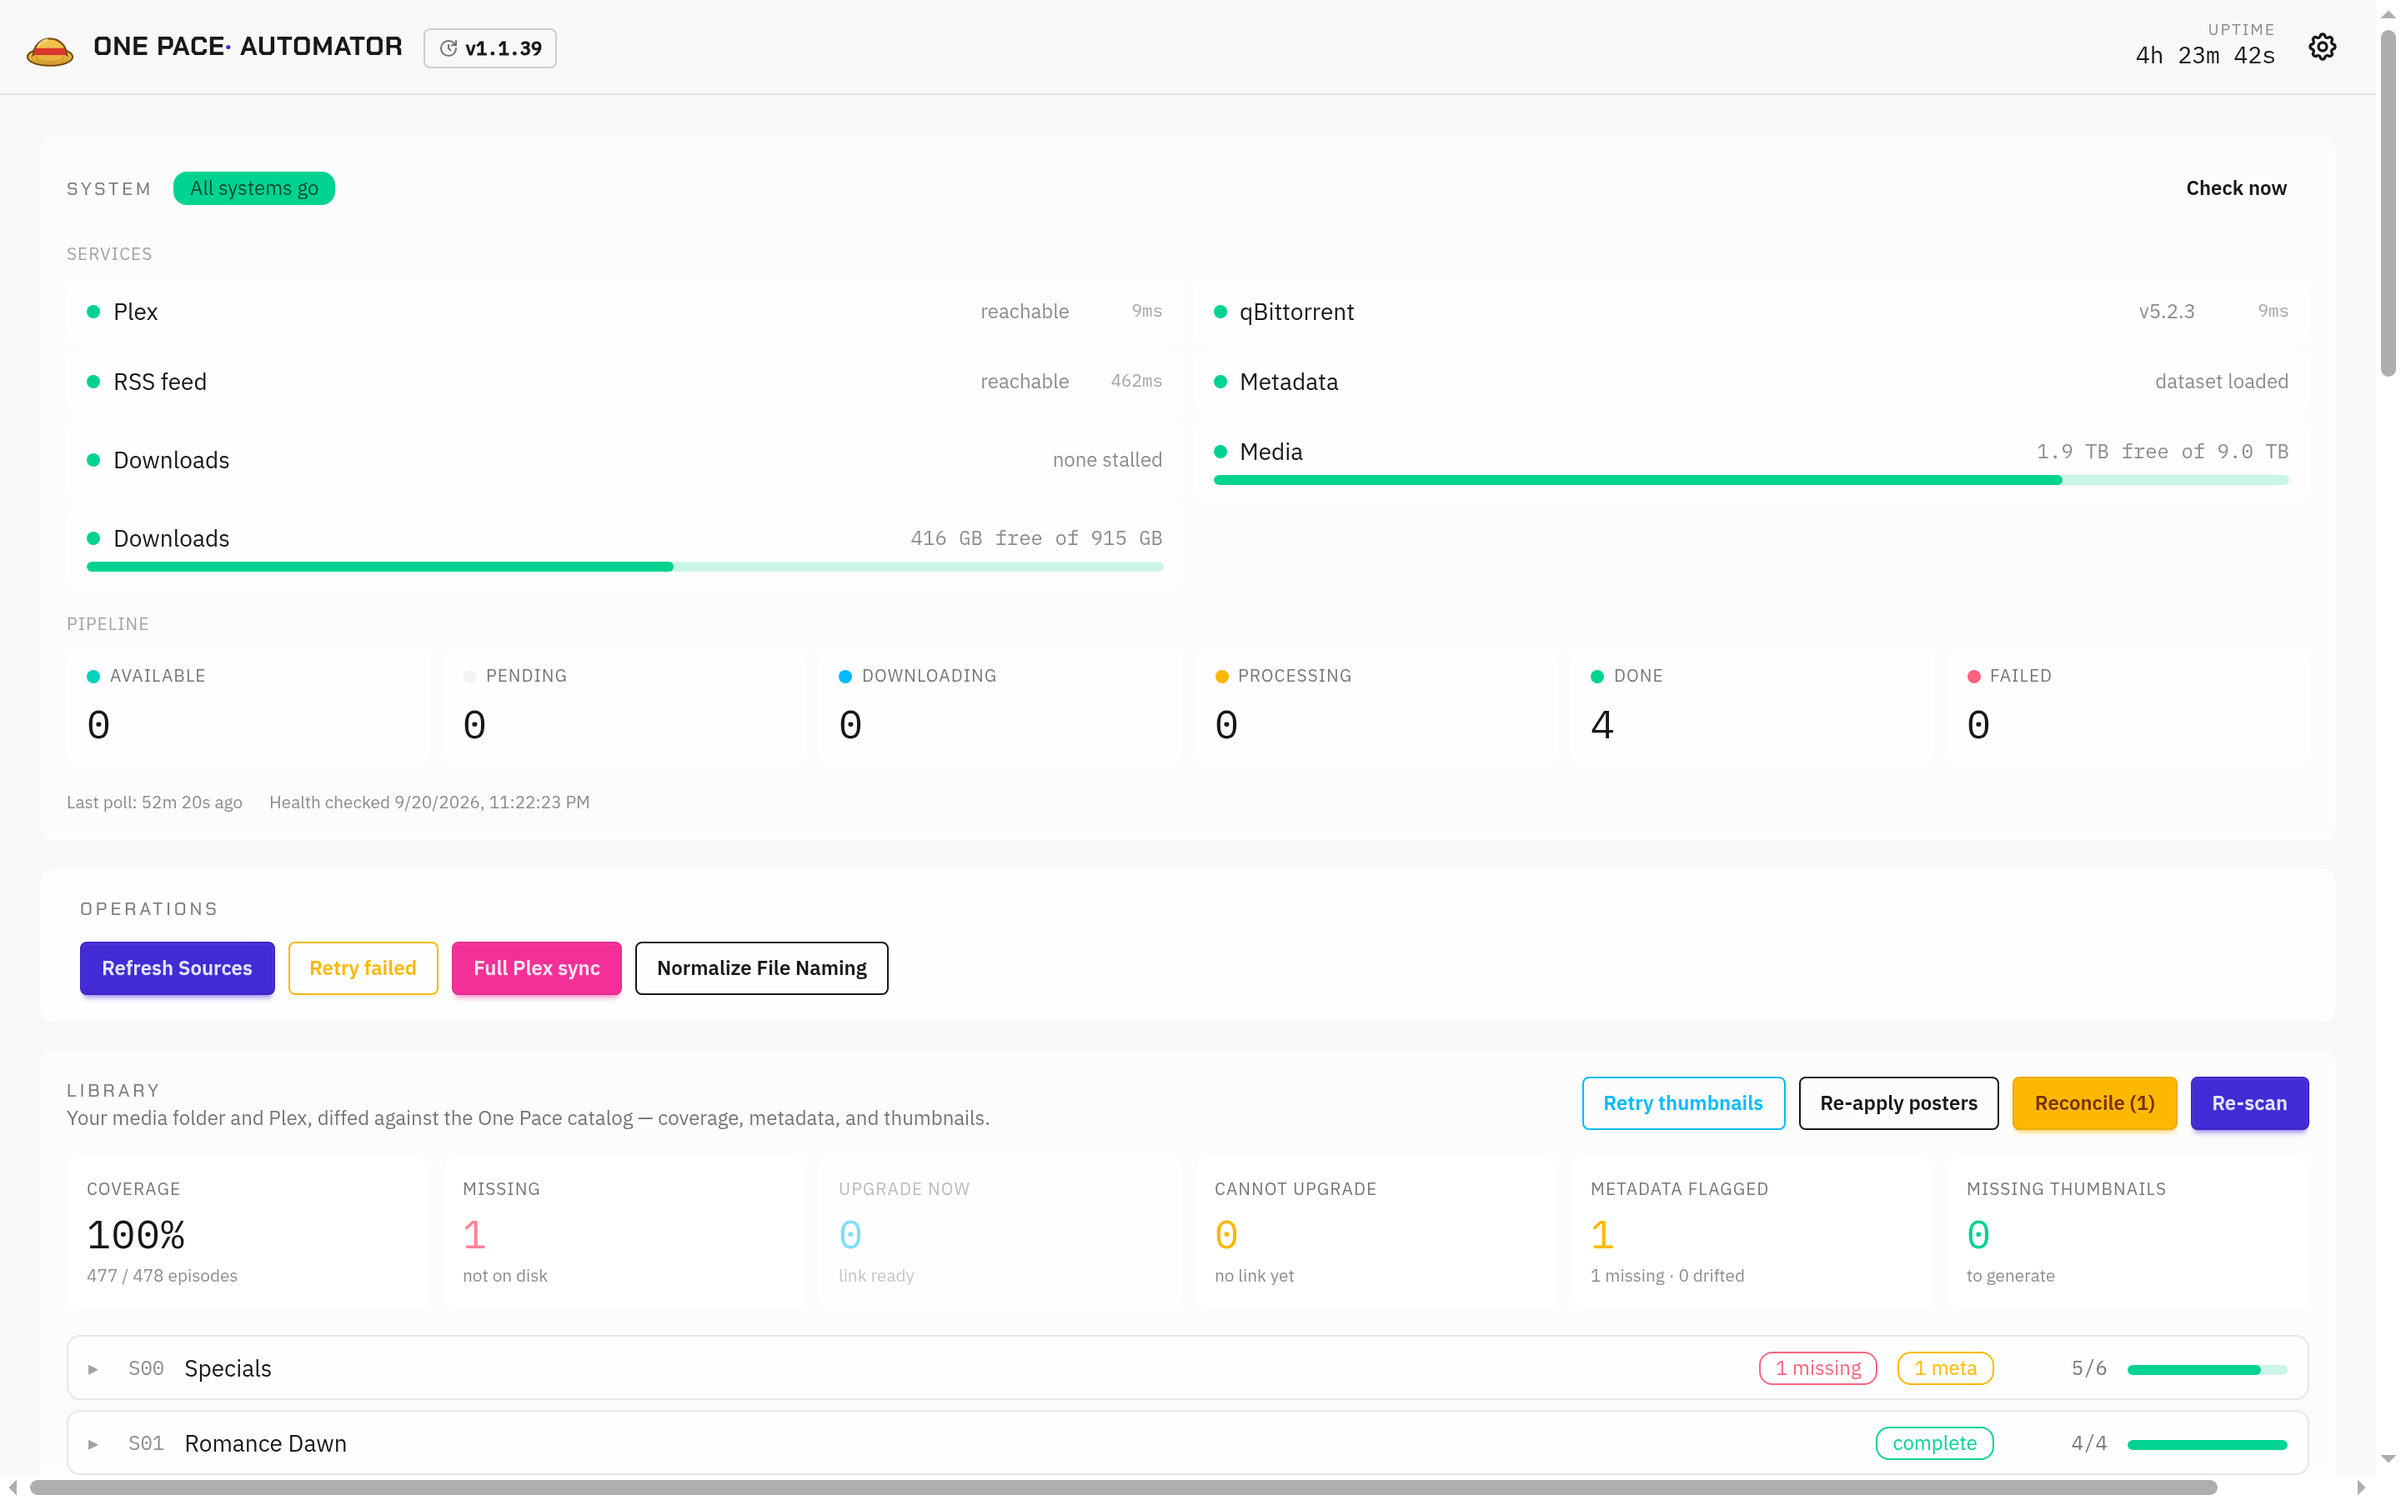
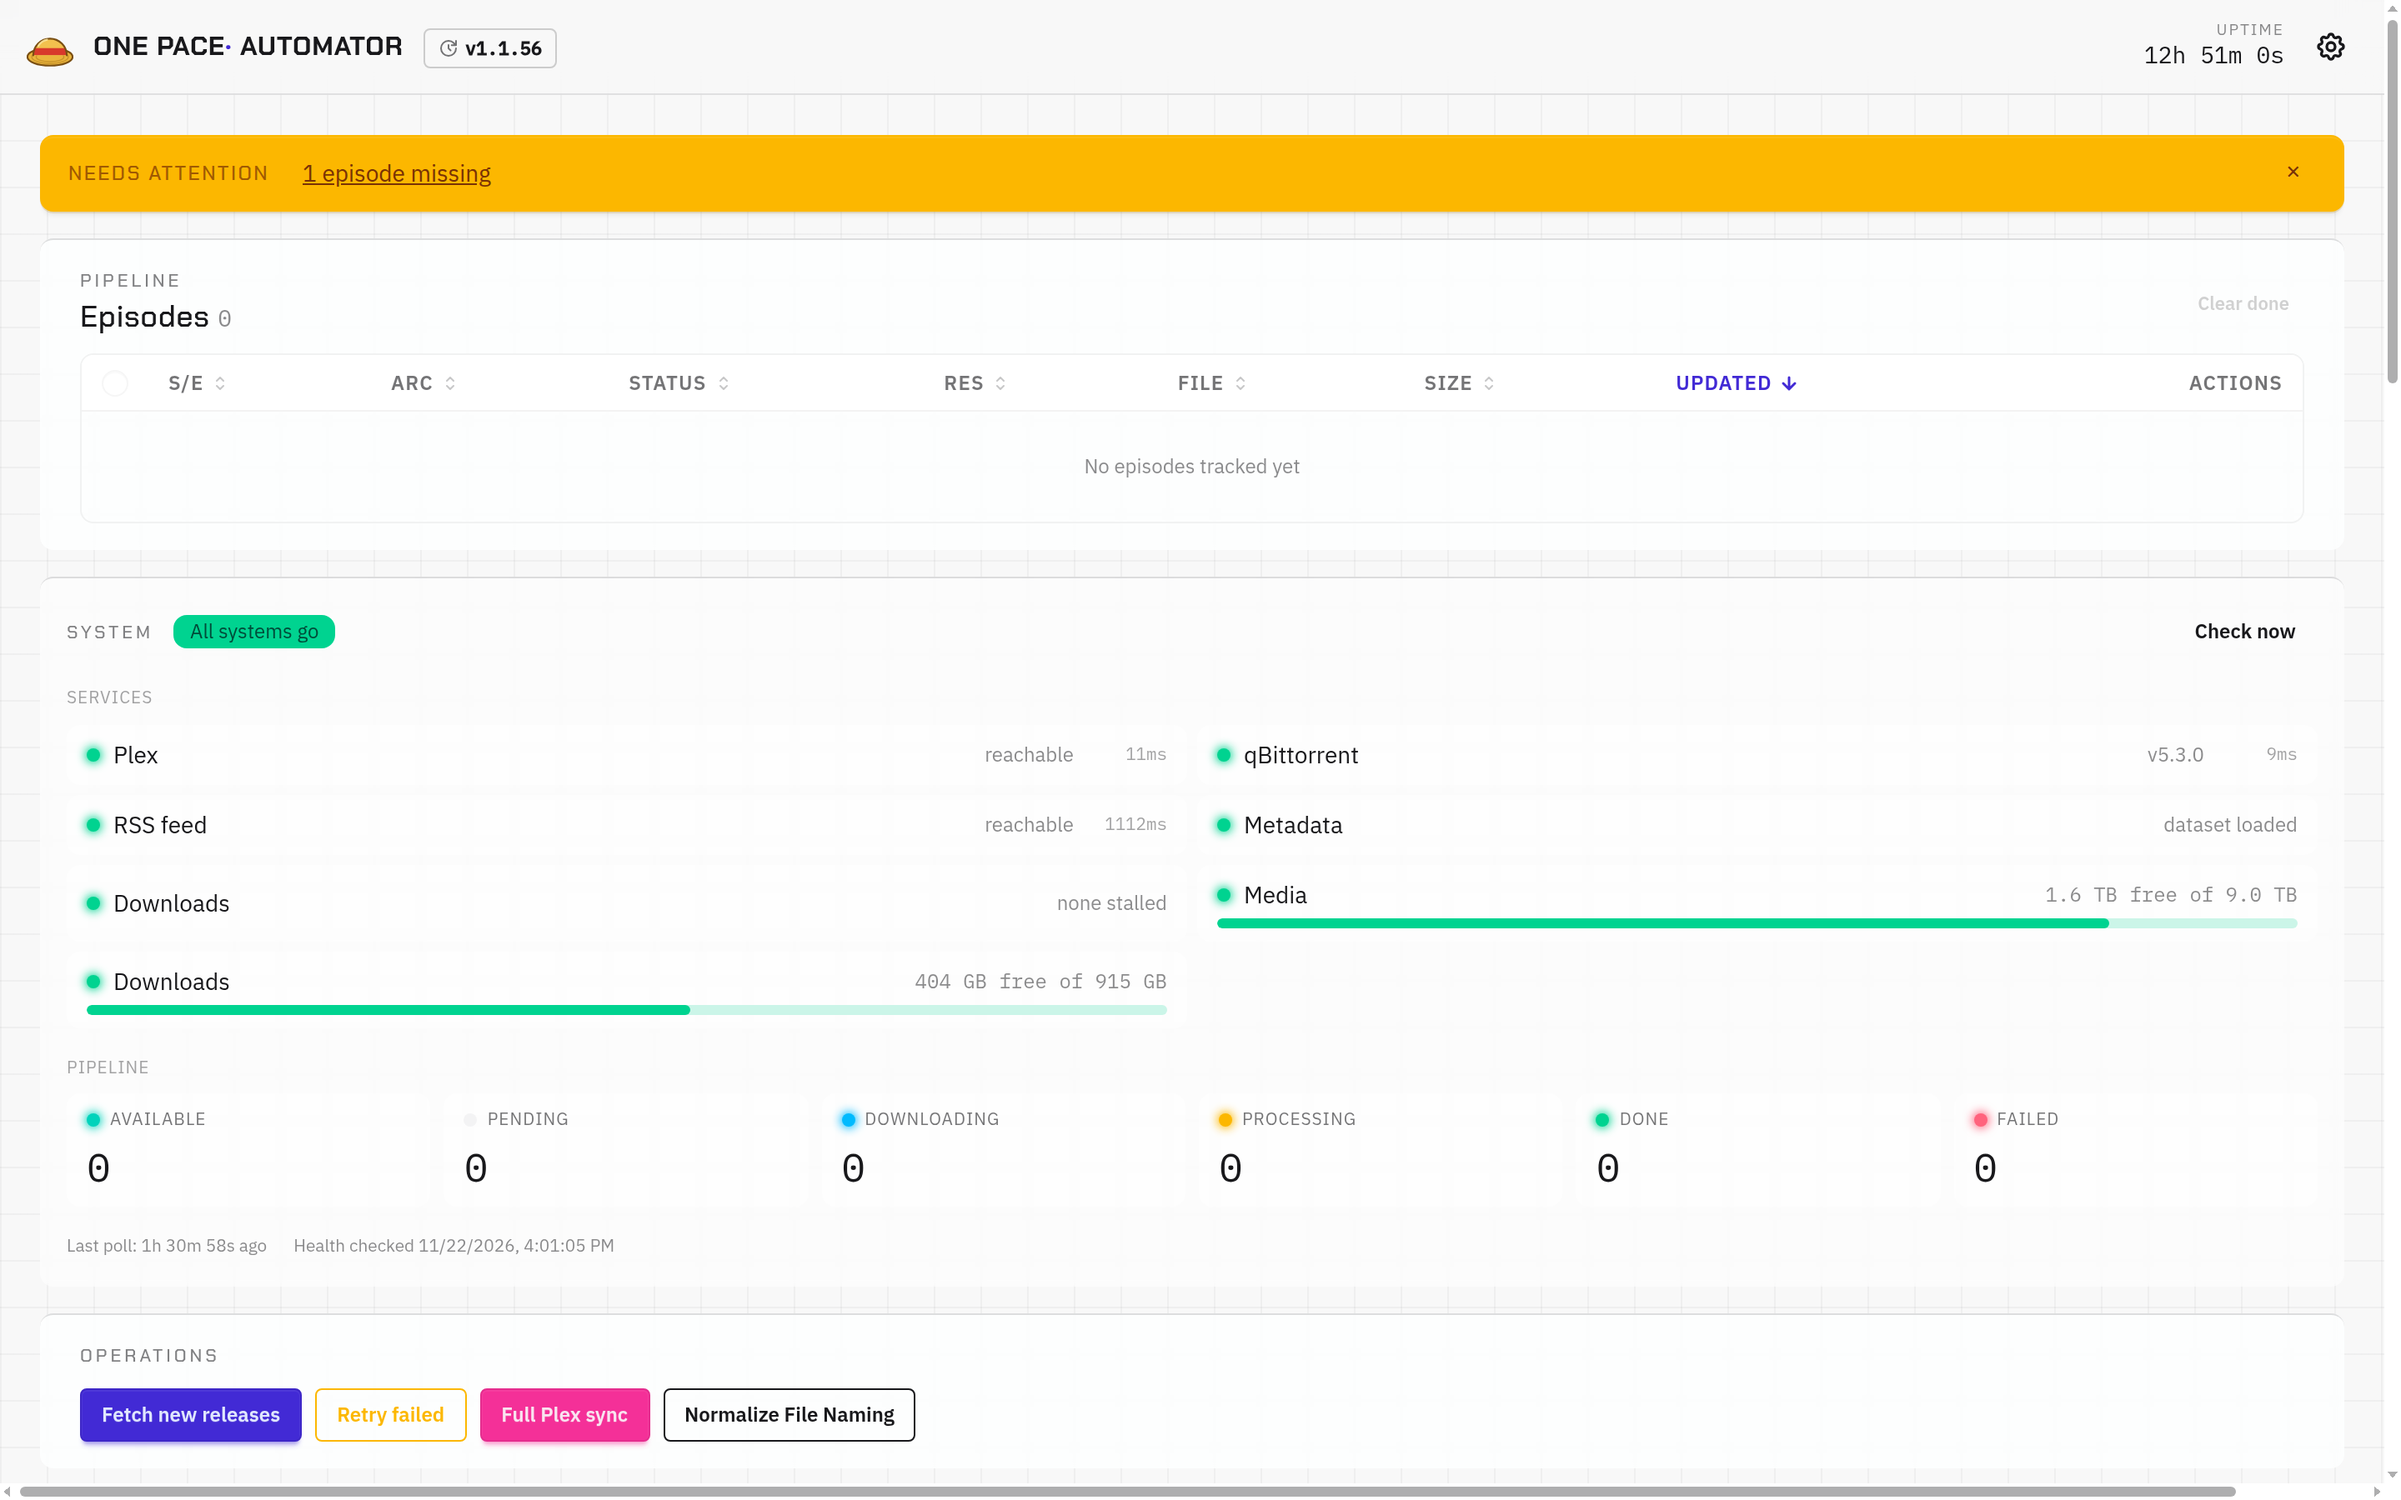
Fix mobile overflow found by browser verification, refresh README screenshots
Playwright sweep (17 checks: section order, banner dismiss/persist/
resurface, jump-link offset, gap filter, footer clusters, 390px overflow,
zero errors) caught two real phone-layout bugs:

- Closed dialog.modal elements stay rendered (DaisyUI v5) and leaked
  their natural width into the page; keep them display:none until
  showModal() sets [open]. Verified dialogs still open/close.
- DaisyUI v5 renders .alert as grid (single row), so the banner pushed
  wide off-viewport; the banner is now flex with wrap.
- Library header button group did not wrap at 390px.

The lit deck-card edge, dialog guard, banner flex and touch tweaks live
in an unlayered overrides block: Tailwind v4 emits DaisyUI outside any
cascade layer, so unlayered styles outrank @layer rules regardless of
specificity.

Re-captured all eight README screenshots against the live backend
through the vite proxy (real data, zero writes).

diff --git a/frontend/src/app.css b/frontend/src/app.css
@@ -90,7 +90,6 @@
      elevated rather than flat.                                            */
   .deck-card {
     backdrop-filter: blur(2px);
-    border-top: 1px solid color-mix(in oklch, var(--color-base-content) 14%, transparent);
   }
 
   /* ── LEDs ────────────────────────────────────────────────────────────────
@@ -102,16 +101,13 @@
   .led-info { box-shadow: 0 0 6px 1px var(--color-info); }
   .led-accent { box-shadow: 0 0 6px 1px var(--color-accent); }
 
+  /* ── Closed dialogs ──────────────────────────────────────────────────────
+     (Implementation lives in the unlayered overrides at the end of this
+     file — DaisyUI's unlayered styles outrank anything inside @layer.) */
+
   /* ── Touch targets ───────────────────────────────────────────────────────
-     Episode chips are dense by design; on touch screens give them a real
-     tap target without changing the desktop layout.                         */
-  @media (pointer: coarse) {
-    #library .badge-sm {
-      min-height: 1.75rem;
-      padding-inline: 0.75rem;
-      font-size: 0.8rem;
-    }
-  }
+     (Implementation lives in the unlayered overrides at the end of this
+     file — DaisyUI's unlayered styles outrank anything inside @layer.) */
 
   /* ── Eyebrow label ───────────────────────────────────────────────────────
      Muted label above section headings.                                    */
@@ -122,4 +118,39 @@
     text-transform: uppercase;
     color: oklch(from var(--color-base-content) l c h / 0.55);
   }
+}
+
+/* ── Unlayered overrides ───────────────────────────────────────────────────
+   Tailwind v4 emits DaisyUI's styles outside any cascade layer, and unlayered
+   styles beat layered ones regardless of specificity. Anything that must win
+   over a DaisyUI component therefore lives here, not in @layer.             */
+
+/* Closed dialogs stay out of layout entirely. DaisyUI keeps them rendered
+   (for transitions), which leaks their natural width into the page on narrow
+   screens. showModal() sets [open] and restores them. */
+dialog.modal:not([open]):not(.modal-open) {
+  display: none;
+}
+
+/* Lit top edge on deck cards, like a rack panel. */
+.deck-card {
+  border-top: 1px solid color-mix(in oklch, var(--color-base-content) 14%, transparent);
+}
+
+/* Larger episode-chip tap targets on touch screens; desktop untouched. */
+@media (pointer: coarse) {
+  #library .badge-sm {
+    min-height: 1.75rem;
+    padding-inline: 0.75rem;
+    font-size: 0.8rem;
+  }
+}
+
+/* The attention banner must wrap on narrow screens. DaisyUI v5 renders
+   .alert as grid (single row), which pushes wide content off-viewport.
+   Flex restores wrapping; colors and padding still come from .alert. */
+div.alert[role="alert"] {
+  display: flex;
+  flex-wrap: wrap;
+  align-items: center;
 }

diff --git a/frontend/src/lib/Library.svelte b/frontend/src/lib/Library.svelte
@@ -365,7 +365,7 @@
           Your media folder and Plex, diffed against the One Pace catalog — coverage, metadata, and thumbnails.
         </p>
       </div>
-      <div class="flex gap-2">
+      <div class="flex gap-2 flex-wrap">
           <div
             class="tooltip tooltip-top before:max-w-xs before:whitespace-normal"
             data-tip="Asks Plex to generate a thumbnail again for every episode missing one — including those previous attempts gave up on. Generation runs in Plex's background queue, so results show up on a later scan."
